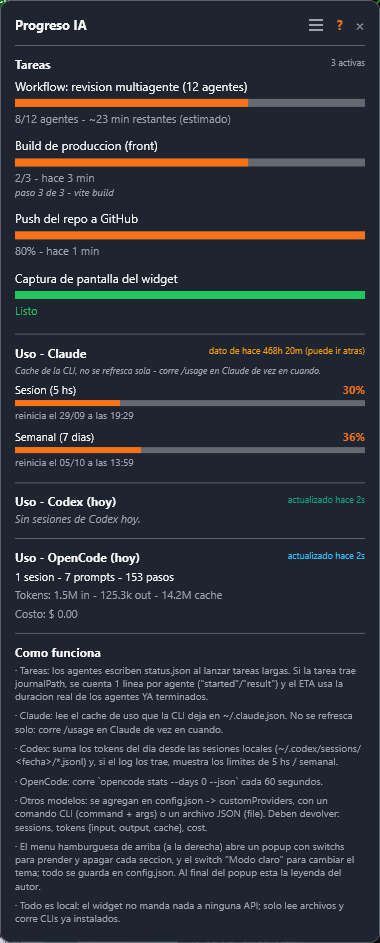
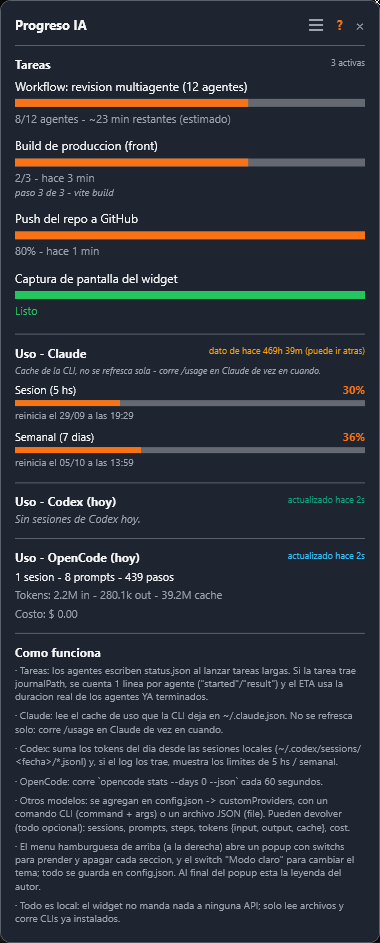
Hardening post-gauntlet: tema sin restos, config a prueba de balas, status defensivo
- Separadores de seccion: se repintan al cambiar de tema (lista de separadores + Repintar-Tema)
- config.json: backup config.json.bak si el JSON no parsea; merge preserva claves desconocidas
  y unifica capitalizacion; claves case-insensitive (Convertir-MapaCI); refreshSeconds validados
  (TryParse >0 en built-ins; 1s-24h en customProviders)
- status.json: parseo numerico defensivo (Convertir-Numero/Entero, clamp +-1e9): basura no
  rompe filas ni spamea errores por tick
- README: Historia corregida (claude-progress tambien mostraba tareas), customProviders
  precisado, nota de licencia, captura de ayuda regenerada; colorDim del tema claro mas oscuro

diff --git a/README.md b/README.md
@@ -14,8 +14,8 @@ Widget flotante para Windows que muestra, siempre visible arriba a la derecha:
 5. **Otros modelos** — proveedores propios definidos en `config.json` (un comando CLI o un
    archivo JSON con métricas).
 
-El **menú hamburguesa** (arriba a la derecha) abre un **popup flotante** — fondo más oscuro, no
-empuja el contenido — con *switchs* para prender/apagar cada sección y el switch **Modo claro**
+El **menú hamburguesa** (arriba a la derecha) abre un **popup flotante** — con fondo y borde
+propios, no empuja el contenido — con *switchs* para prender/apagar cada sección y el switch **Modo claro**
 (tema claro/oscuro); todo se guarda en `config.json`. El botón **?** muestra la explicación de cómo
 funciona dentro del propio widget, y al pie del popup está la leyenda del autor.
 
@@ -36,14 +36,14 @@ Modo claro (switch **Modo claro** del menú):
 ## Historia
 
 `ai-progress` es la evolución de un proyecto personal anterior: **`claude-progress`**, un widget
-mínimo que armé para mirar el uso de Claude Code (ventana de 5 h y límite semanal) mientras corría
-workflows largos de agentes. Nunca fue un repo: vivió siempre en una carpeta local, como
-herramienta de trabajo.
+mínimo que armé para mirar el uso de Claude Code (ventana de 5 h y límite semanal) y el progreso
+de sus tareas de background, mientras corría workflows largos de agentes. Nunca fue un repo: vivió
+siempre en una carpeta local, como herramienta de trabajo.
 
 Cuando el día a día se repartió entre más herramientas — Codex, OpenCode, Claude, workflows
-multiagente — ese widget se quedó corto: solo miraba a Claude y no sabía nada de las tareas en
-curso. `ai-progress` es la generalización: un monitor flotante para todas las herramientas de IA,
-con progreso real de tareas, uso por proveedor, menú de secciones y tema claro/oscuro.
+multiagente — ese widget se quedó corto: miraba solo a Claude Code y no sabía nada de las otras
+herramientas. `ai-progress` es la generalización: un monitor flotante para todas las herramientas
+de IA, con progreso real de tareas, uso por proveedor, menú de secciones y tema claro/oscuro.
 
 La idea de fondo no cambió: pegarle un vistazo y saber qué está pasando, sin abrir una terminal ni
 cambiar de ventana.
@@ -117,10 +117,12 @@ propio widget lo reescribe cuando usás el menú hamburguesa o el botón **?**.
 
 ### Proveedores propios (`customProviders`)
 
-Cada proveedor agrega una sección (y su chip en el menú). Dos formas de obtener los datos:
+Cada proveedor agrega una sección, y una fila en el menú para prenderla/apagarla si le ponés
+`name` (sin `name` igual aparece la sección, con el `id`). Formas de obtener los datos:
 
 - `command` (+ `args` opcional): se ejecuta y tiene que imprimir **JSON por stdout**.
-- `file`: ruta a un JSON local (se relee en cada refresco).
+- `file`: ruta a un JSON local (se relee cada `refreshSeconds`).
+- `refreshSeconds` (opcional): cada cuánto se ejecuta/relee; default 60 s.
 
 JSON esperado — todos los campos son opcionales:
 
@@ -154,3 +156,4 @@ Ejemplo de configuración (para cualquier CLI que exponga stats en JSON):
   edad del dato). Codex se recalcula cada 60 s desde los logs; si no hubo sesiones hoy, lo dice.
 - Viene del widget personal para Claude Code `claude-progress`, generalizado a IA en general
   (ver **Historia**).
+- Sin licencia publicada: todos los derechos reservados.
